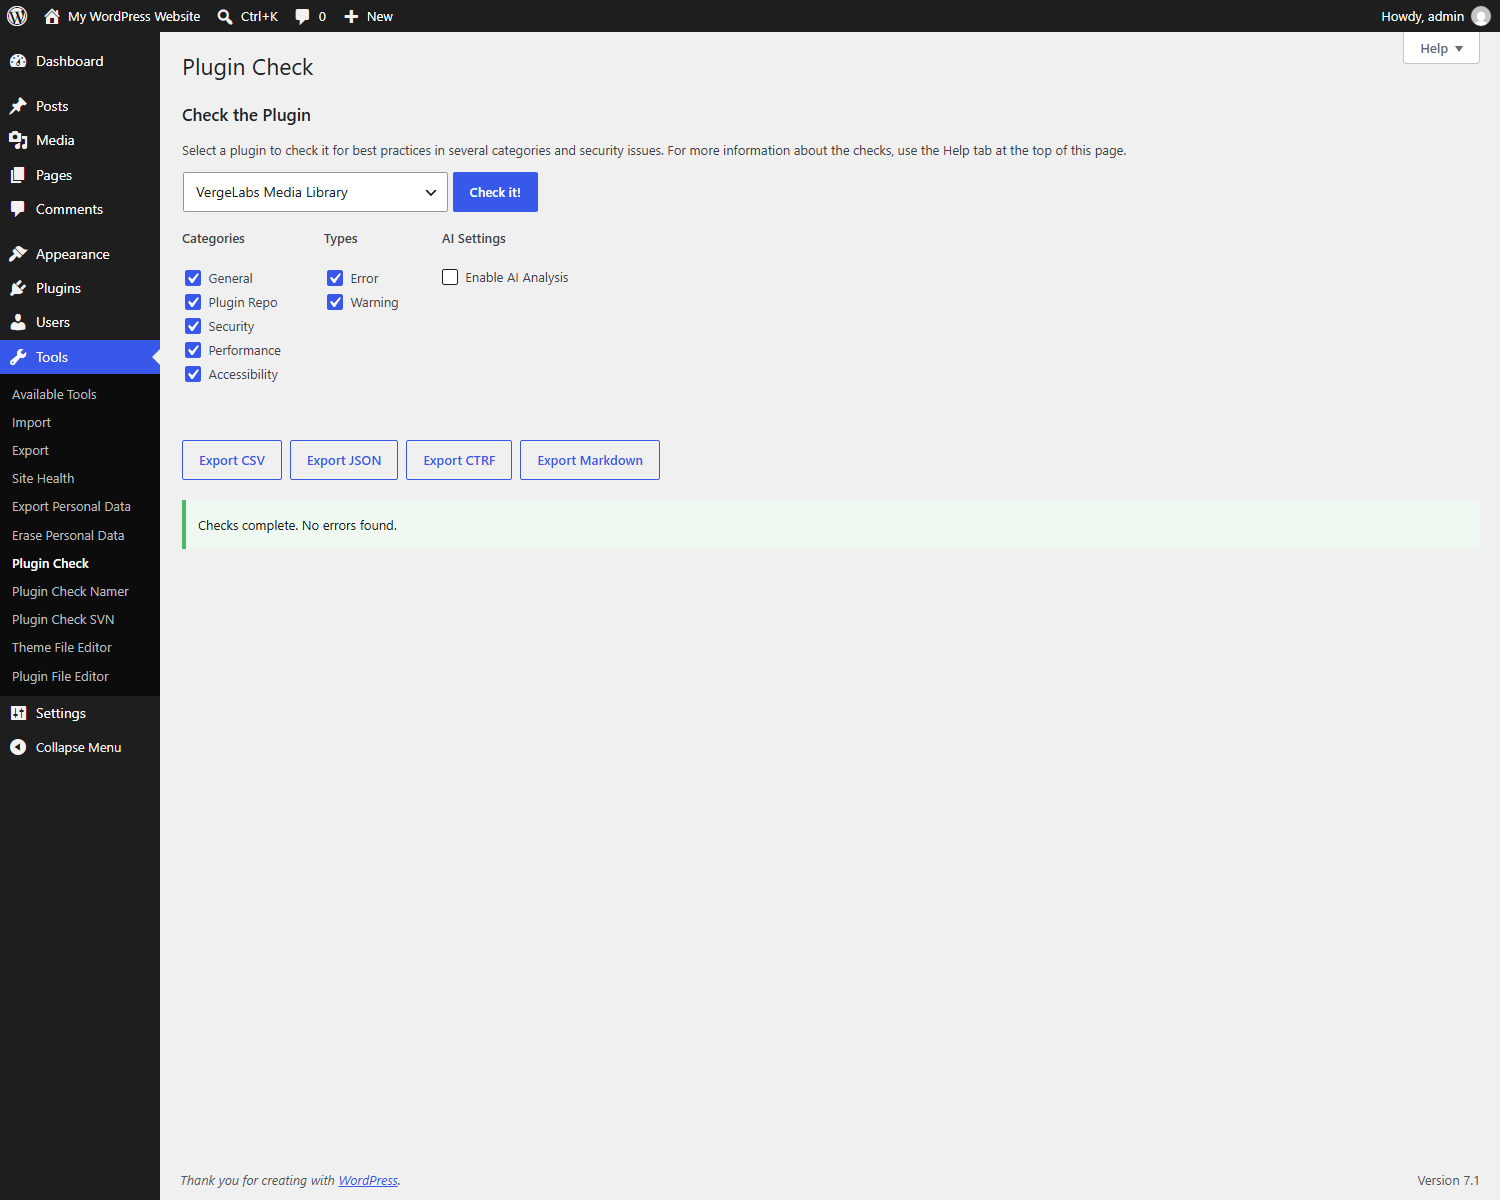
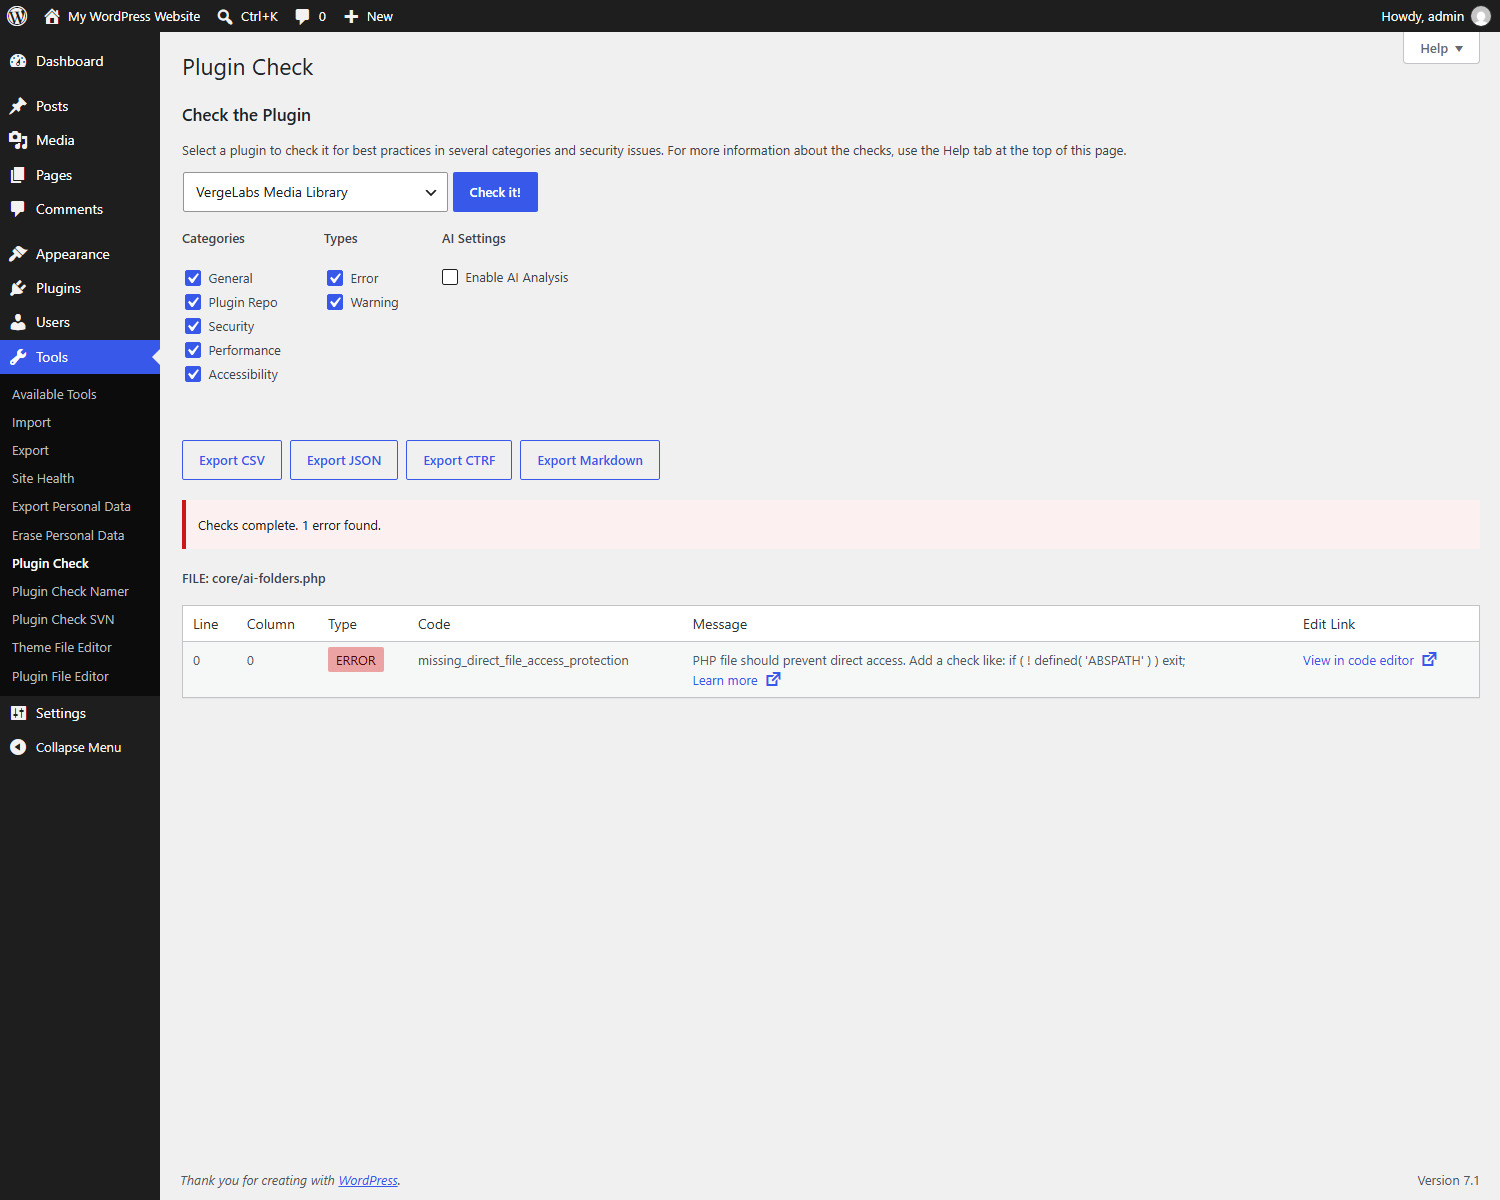
fix(ai-folders): the direct-access guard every other core file has
Plugin Check on the clean archive, all five categories: one error, and a real
one. core/ai-folders.php could be requested straight off the filesystem. Same
two lines as core/smart-folders.php and the rest.

Claude-Session: https://claude.ai/code/session_017CbcifJVx1bXP2YLJ7oSmg

diff --git a/core/ai-folders.php b/core/ai-folders.php
@@ -1,4 +1,8 @@
 <?php
+
+if ( ! defined( 'ABSPATH' ) )
+    exit;
+
 /**
  *  AI smart folders — the index, asked out loud.
  *
